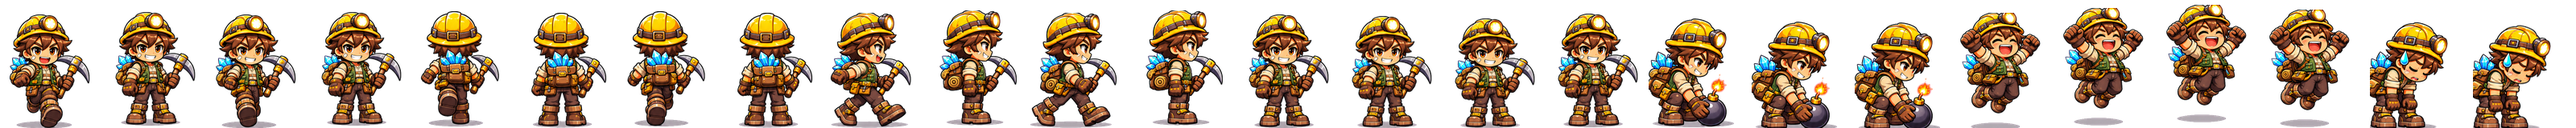
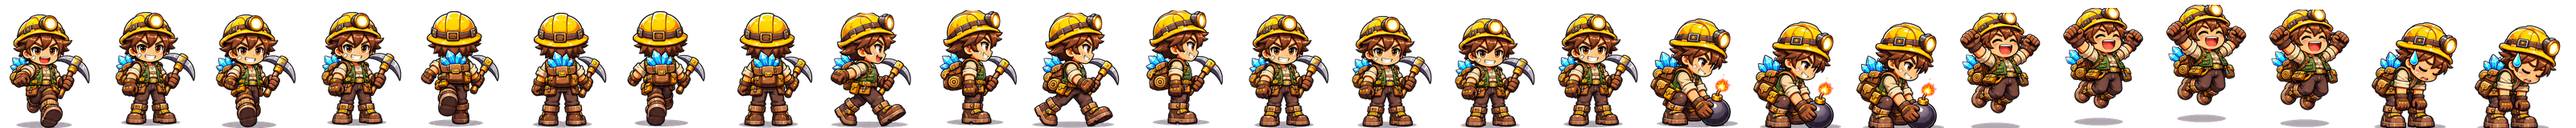
Extrator Lendário (de Ouro Real) + poses largas não são mais cortadas na borda
Claude-Session: https://claude.ai/code/session_01GYAS9qPtfjEUuFc1mzz6HS

Changed region(s): [[0.625, 0.1562, 0.75, 1.0], [0.9062, 0.1875, 1.0, 1.0], [0.375, 0.0938, 0.4375, 1.0]]

diff --git a/public/src/config/hdArt.js b/public/src/config/hdArt.js
@@ -37,4 +37,4 @@ export const HD_GROUPS = {"0_0": ["map_w0z0", "rock_w0z0", "rock_w0z0_d1", "rock
 
 // Heróis: folha hc_CLASSE_rRARIDADE.png (cores da variação 0) com quadros fw×fh; recolor[v] = pares [cor da variação 0, cor da variação v];
 // anims = [primeiro quadro, quantidade, quadros/s, ordem opcional].
-export const HD_HEROES = {"fw": 64, "fh": 80, "lw": 16.0, "lh": 20.0, "pivot": 0.7, "fieldScale": 4, "palettes": 8, "rarities": 5, "idleFrame": 12, "roles": ["attacker", "support", "collector", "specialist"], "frames": 25, "anims": {"walk_down": [0, 4, 9], "walk_up": [4, 4, 9], "walk_side": [8, 4, 10], "idle": [12, 4, 6, [0, 0, 0, 1, 2, 2, 2, 2, 1, 0, 0, 0, 1, 2, 2, 2, 2, 1, 0, 3, 0, 0]], "plant": [16, 3, 12], "cheer": [19, 4, 10], "tired": [23, 2, 3]}, "recolor": [[], [[1313802, 526348], [1981050, 3809296], [2758672, 1184288], [3038384, 5911576], [4466712, 1973808], [4858904, 3808272], [4884184, 8014886], [6175266, 2894916], [7231409, 8276082], [7826385, 9524087], [8015920, 4210780], [8670327, 7227013], [8931959, 8275314], [8946920, 10772863], [9062960, 6961184], [9091312, 10119742], [10119748, 5921400], [11379190, 12022669], [12745302, 10115638], [13532316, 12020361], [13596254, 11886922], [15111602, 13664154], [15307127, 13662301], [15377532, 12877396], [15641287, 14717873], [16304288, 14721146]], [[1313802, 3810312], [2758672, 6965780], [4466712, 10122276], [4858904, 5122592], [6175266, 13147194], [8015920, 15254624], [8670327, 12024190], [8931959, 9063804], [9062960, 9721930], [10119748, 16442522], [12745302, 13668472], [13532316, 14125488], [13596254, 14189684], [15111602, 15508424], [15307127, 15704464], [15377532, 16039074], [15641287, 15906012], [16304288, 16767172]], [[1313802, 526348], [1981050, 3809296], [2758672, 1184288], [3038384, 5911576], [4466712, 1973808], [4858904, 2757642], [4884184, 8014886], [6175266, 2894916], [7231409, 8276082], [7826385, 9524087], [8015920, 4210780], [8670327, 7227013], [8931959, 7684207], [8946920, 10772863], [9062960, 5122068], [9091312, 10119742], [10119748, 5921400], [11379190, 12022669], [12745302, 7618590], [13532316, 10508923], [13596254, 10244154], [15111602, 11823749], [15307127, 11690310], [15377532, 9853488], [15641287, 13007763], [16304288, 11827272]], [[1313802, 2755590], [1981050, 1722916], [2758672, 5904908], [3038384, 2782264], [4466712, 9055764], [4884184, 4497488], [6175266, 11814430], [7231409, 7102590], [7826385, 7698826], [8015920, 14181422], [8670327, 11358325], [8946920, 8688536], [9091312, 8178820], [10119748, 15764562], [11379190, 10857911]], [[1981050, 3809296], [3038384, 5911576], [4858904, 3808272], [4884184, 8014886], [7231409, 8276082], [7826385, 9524087], [8931959, 8275314], [8946920, 10772863], [9062960, 6961184], [9091312, 10119742], [11379190, 12022669], [12745302, 10115638], [13532316, 12020361], [13596254, 11886922], [15111602, 13664154], [15307127, 13662301], [15377532, 12877396], [15641287, 14717873], [16304288, 14721146]], [[1981050, 1722916], [3038384, 2782264], [4858904, 5122592], [4884184, 4497488], [7231409, 7102590], [7826385, 7698826], [8931959, 9063804], [8946920, 8688536], [9062960, 9721930], [9091312, 8178820], [11379190, 10857911], [12745302, 13668472], [13532316, 14125488], [13596254, 14189684], [15111602, 15508424], [15307127, 15704464], [15377532, 16039074], [15641287, 15906012], [16304288, 16767172]], [[1313802, 3810312], [1981050, 3809296], [2758672, 6965780], [3038384, 5911576], [4466712, 10122276], [4858904, 2757642], [4884184, 8014886], [6175266, 13147194], [7231409, 8276082], [7826385, 9524087], [8015920, 15254624], [8670327, 12024190], [8931959, 7684207], [8946920, 10772863], [9062960, 5122068], [9091312, 10119742], [10119748, 16442522], [11379190, 12022669], [12745302, 7618590], [13532316, 10508923], [13596254, 10244154], [15111602, 11823749], [15307127, 11690310], [15377532, 9853488], [15641287, 13007763], [16304288, 11827272]]], "sheets": {"attacker": [0, 1, 2, 3, 4], "support": [0, 1, 2, 3, 4], "collector": [0, 1, 2], "specialist": [0]}};
+export const HD_HEROES = {"fw": 64, "fh": 80, "lw": 16.0, "lh": 20.0, "pivot": 0.7, "fieldScale": 4, "palettes": 8, "rarities": 5, "idleFrame": 12, "roles": ["attacker", "support", "collector", "specialist"], "frames": 25, "anims": {"walk_down": [0, 4, 9], "walk_up": [4, 4, 9], "walk_side": [8, 4, 10], "idle": [12, 4, 6, [0, 0, 0, 1, 2, 2, 2, 2, 1, 0, 0, 0, 1, 2, 2, 2, 2, 1, 0, 3, 0, 0]], "plant": [16, 3, 12], "cheer": [19, 4, 10], "tired": [23, 2, 3]}, "recolor": [[], [[1313802, 526348], [1981050, 3809296], [2758672, 1184288], [3038384, 5911576], [4466712, 1973808], [4858904, 3808272], [4884184, 8014886], [6175266, 2894916], [7231409, 8276082], [7826385, 9524087], [8015920, 4210780], [8670327, 7227013], [8931959, 8275314], [8946920, 10772863], [9062960, 6961184], [9091312, 10119742], [10119748, 5921400], [11379190, 12022669], [12745302, 10115638], [13532316, 12020361], [13596254, 11886922], [15111602, 13664154], [15307127, 13662301], [15377532, 12877396], [15641287, 14717873], [16304288, 14721146]], [[1313802, 3810312], [2758672, 6965780], [4466712, 10122276], [4858904, 5122592], [6175266, 13147194], [8015920, 15254624], [8670327, 12024190], [8931959, 9063804], [9062960, 9721930], [10119748, 16442522], [12745302, 13668472], [13532316, 14125488], [13596254, 14189684], [15111602, 15508424], [15307127, 15704464], [15377532, 16039074], [15641287, 15906012], [16304288, 16767172]], [[1313802, 526348], [1981050, 3809296], [2758672, 1184288], [3038384, 5911576], [4466712, 1973808], [4858904, 2757642], [4884184, 8014886], [6175266, 2894916], [7231409, 8276082], [7826385, 9524087], [8015920, 4210780], [8670327, 7227013], [8931959, 7684207], [8946920, 10772863], [9062960, 5122068], [9091312, 10119742], [10119748, 5921400], [11379190, 12022669], [12745302, 7618590], [13532316, 10508923], [13596254, 10244154], [15111602, 11823749], [15307127, 11690310], [15377532, 9853488], [15641287, 13007763], [16304288, 11827272]], [[1313802, 2755590], [1981050, 1722916], [2758672, 5904908], [3038384, 2782264], [4466712, 9055764], [4884184, 4497488], [6175266, 11814430], [7231409, 7102590], [7826385, 7698826], [8015920, 14181422], [8670327, 11358325], [8946920, 8688536], [9091312, 8178820], [10119748, 15764562], [11379190, 10857911]], [[1981050, 3809296], [3038384, 5911576], [4858904, 3808272], [4884184, 8014886], [7231409, 8276082], [7826385, 9524087], [8931959, 8275314], [8946920, 10772863], [9062960, 6961184], [9091312, 10119742], [11379190, 12022669], [12745302, 10115638], [13532316, 12020361], [13596254, 11886922], [15111602, 13664154], [15307127, 13662301], [15377532, 12877396], [15641287, 14717873], [16304288, 14721146]], [[1981050, 1722916], [3038384, 2782264], [4858904, 5122592], [4884184, 4497488], [7231409, 7102590], [7826385, 7698826], [8931959, 9063804], [8946920, 8688536], [9062960, 9721930], [9091312, 8178820], [11379190, 10857911], [12745302, 13668472], [13532316, 14125488], [13596254, 14189684], [15111602, 15508424], [15307127, 15704464], [15377532, 16039074], [15641287, 15906012], [16304288, 16767172]], [[1313802, 3810312], [1981050, 3809296], [2758672, 6965780], [3038384, 5911576], [4466712, 10122276], [4858904, 2757642], [4884184, 8014886], [6175266, 13147194], [7231409, 8276082], [7826385, 9524087], [8015920, 15254624], [8670327, 12024190], [8931959, 7684207], [8946920, 10772863], [9062960, 5122068], [9091312, 10119742], [10119748, 16442522], [11379190, 12022669], [12745302, 7618590], [13532316, 10508923], [13596254, 10244154], [15111602, 11823749], [15307127, 11690310], [15377532, 9853488], [15641287, 13007763], [16304288, 11827272]]], "sheets": {"attacker": [0, 1, 2, 3, 4], "support": [0, 1, 2, 3, 4], "collector": [0, 1, 2, 3], "specialist": [0]}};
